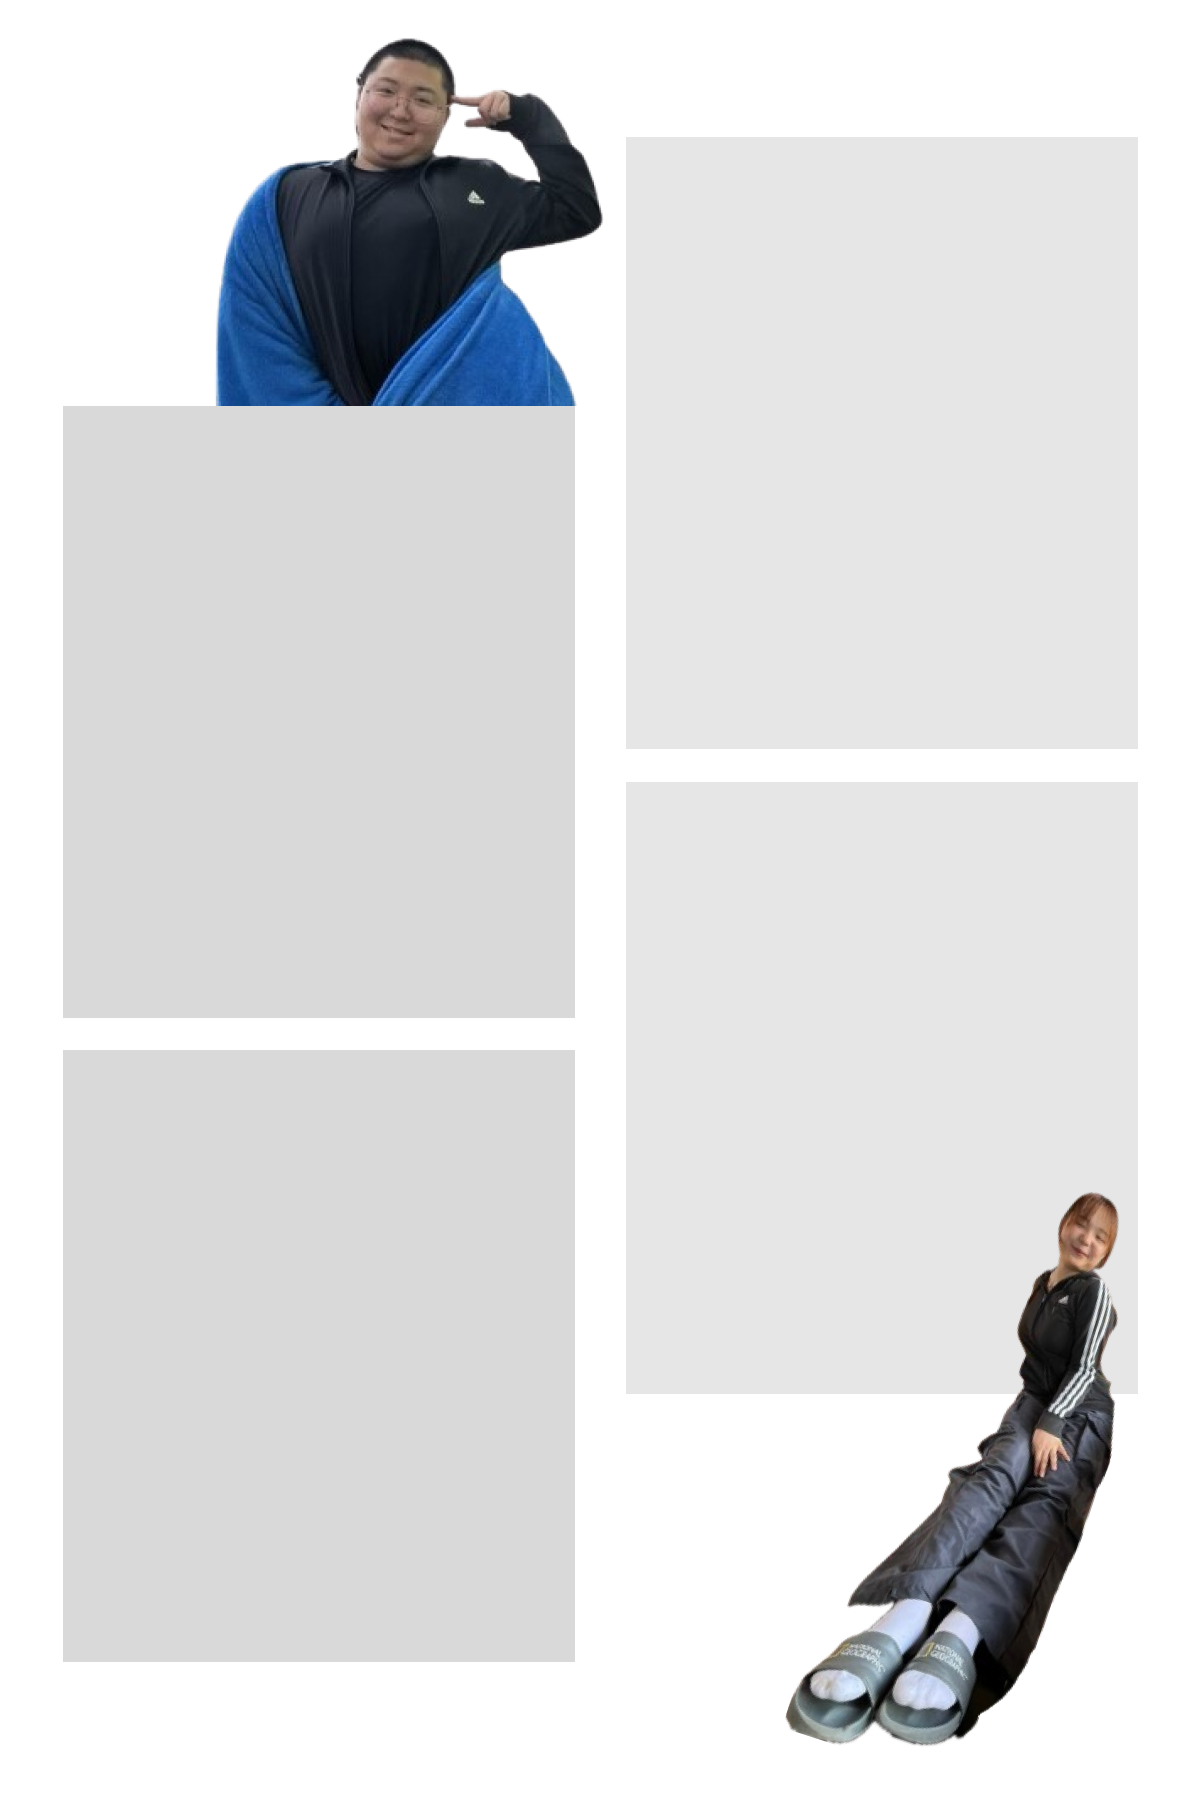
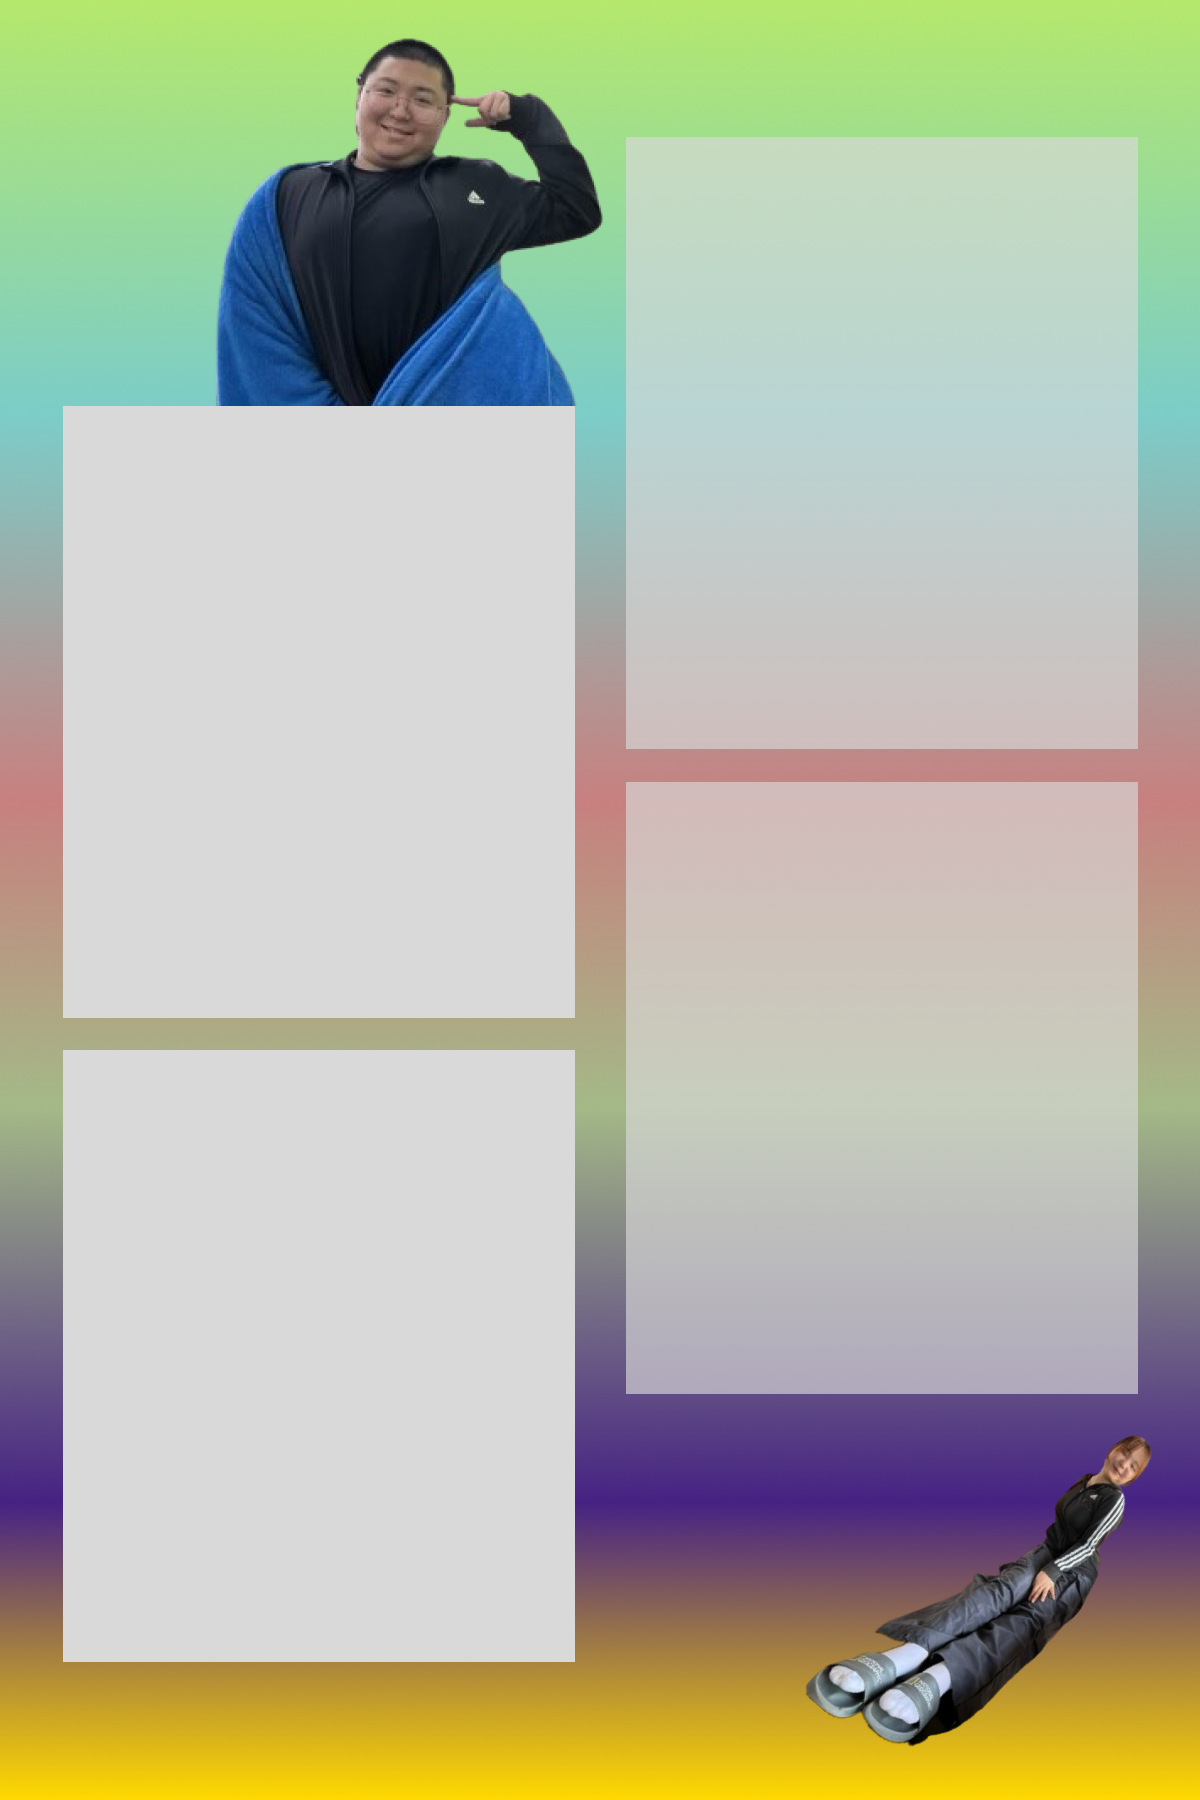
완성 🚀

diff --git a/spam/src/screen/DownloadButton.js b/spam/src/screen/DownloadButton.js
@@ -3,56 +3,19 @@ import html2canvas from "html2canvas";
 import "./DownloadButton.css";
 
 const DownloadButton = () => {
-  const downloadImage = () => {
+  const printImage = () => {
     const frame = document.querySelector(".photo-frame");
 
     if (frame) {
       const elementWidth = 377.95275591;
       const elementHeight = 559.37;
       html2canvas(frame, {
-        scale: 4, // 디바이스 픽셀 밀도에 맞게 스케일 조정
-        useCORS: true, // 외부 리소스 CORS 문제 방지
-        backgroundColor: null, // 투명 배경 유지
-        windowWidth: elementWidth, // 요소의 너비로 캡처 크기 설정
-        windowHeight: elementHeight, // 요소의 높이로 캡처 크기 설정
+        scale: 4,
+        useCORS: true,
+        backgroundColor: null,
+        windowWidth: elementWidth,
+        windowHeight: elementHeight,
       }).then((canvas) => {
-        // const img = new Image();
-        // img.src = canvas.toDataURL("image/png");
-
-        // img.onload = () => {
-        //   const imgWidth = img.width;
-        //   const imgHeight = img.height;
-
-        //   // 원하는 너비와 높이 설정
-        //   const desiredWidth = 500;
-        //   const desiredHeight = 800;
-
-        //   // 비율을 맞추기 위해 새로운 캔버스 생성
-        //   const newCanvas = document.createElement("canvas");
-        //   const ctx = newCanvas.getContext("2d");
-
-        //   // 이미지의 비율을 유지하면서 새로운 캔버스 크기 설정
-        //   if (imgWidth / imgHeight > desiredWidth / desiredHeight) {
-        //     newCanvas.width = desiredWidth;
-        //     newCanvas.height = Math.floor(
-        //       (desiredWidth / imgWidth) * imgHeight
-        //     );
-        //   } else {
-        //     newCanvas.height = desiredHeight;
-        //     newCanvas.width = Math.floor(
-        //       (desiredHeight / imgHeight) * imgWidth
-        //     );
-        //   }
-
-        //   // 이미지 중앙에 배치
-        //   ctx.drawImage(img, 0, 0, newCanvas.width, newCanvas.height);
-
-        //   // 다운로드 링크 생성 및 클릭
-        //   const link = document.createElement("a");
-        //   link.href = newCanvas.toDataURL("image/png");
-        //   link.download = "insaengnecut.png";
-        //   link.click();
-
         const link = document.createElement("img");
         link.id = "mainImg";
         link.src = canvas.toDataURL("image/png");
@@ -77,24 +40,43 @@ const DownloadButton = () => {
         popup.document.write(originalImage);
         popup.document.write("</body></html>");
         popup.document.close();
-        // };
       });
     } else {
       alert("사진이 준비되지 않았습니다.");
     }
   };
 
-  const handleQRClick = () => {
-    alert("QR 코드 생성 기능을 구현해야 합니다.");
+  const downloadImage = () => {
+    const frame = document.querySelector(".photo-frame");
+
+    if (frame) {
+      const elementWidth = 377.95275591;
+      const elementHeight = 559.37;
+      html2canvas(frame, {
+        scale: 4,
+        useCORS: true,
+        backgroundColor: null,
+        windowWidth: elementWidth,
+        windowHeight: elementHeight,
+      }).then((canvas) => {
+        // Create a link element
+        const link = document.createElement("a");
+        link.href = canvas.toDataURL("image/png"); // Get the image URL
+        link.download = "insaengnecut.png"; // Set the download filename
+        link.click(); // Programmatically click the link to trigger download
+      });
+    } else {
+      alert("사진이 준비되지 않았습니다.");
+    }
   };
 
   return (
     <div className="download-box">
-      <button className="download-button" onClick={downloadImage}>
+      <button className="print-button" onClick={printImage}>
         출력
       </button>
-      <button className="qr-button" onClick={handleQRClick}>
-        QR
+      <button className="download-button" onClick={downloadImage}>
+        다운로드
       </button>
     </div>
   );

diff --git a/spam/src/screen/ChooseScreeen.js b/spam/src/screen/ChooseScreeen.js
@@ -1,8 +1,8 @@
 import React, { useState } from "react";
-import "./ChooseSrceeen.css";
+import "./ChooseScreen.css";
 
 const ChooseScreen = ({ selectFrame }) => {
-  const [selectedFrame, setSelectedFrame] = useState("final_frame"); // 초기 선택된 프레임 설정
+  const [selectedFrame, setSelectedFrame] = useState(null);
 
   const handleFrameSelect = (frame) => {
     setSelectedFrame(frame);
@@ -12,7 +12,7 @@ const ChooseScreen = ({ selectFrame }) => {
     if (selectedFrame) {
       selectFrame(selectedFrame); // 선택된 프레임을 부모 컴포넌트에 전달
     } else {
-      alert("프 레임을 선택해주세요.");
+      alert("프레임을 선택해주세요.");
     }
   };
 
@@ -22,11 +22,11 @@ const ChooseScreen = ({ selectFrame }) => {
       <div className="frame-container">
         <div
           className={`frame-option ${
-            selectedFrame === "final_frame" ? "selected" : ""
+            selectedFrame === "spam_frame" ? "selected" : ""
           }`}
-          onClick={() => handleFrameSelect("final_frame")}
+          onClick={() => handleFrameSelect("spam_frame")}
         >
-          <div className="frame-image final-frame"></div>
+          <div className="frame-image spam-frame"></div>
         </div>
         <div
           className={`frame-option ${
@@ -43,15 +43,14 @@ const ChooseScreen = ({ selectFrame }) => {
           onClick={() => handleFrameSelect("cheese_frame")}
         >
           <div className="frame-image cheese-frame"></div>
-        </div>{" "}
+        </div>
         <div
           className={`frame-option ${
-            selectedFrame === "yaohan_frame" ? "selected" : ""
+            selectedFrame === "yohan_frame" ? "selected" : ""
           }`}
-          onClick={() => handleFrameSelect("yaohan_frame")} // yaohan_frame 오타 수정
+          onClick={() => handleFrameSelect("yohan_frame")}
         >
-          <div className="frame-image yaohan-frame"></div>{" "}
-          {/* CSS 클래스 이름 일치 확인 */}
+          <div className="frame-image yaohan-frame"></div>
         </div>
       </div>
       <button className="next-button" onClick={handleNext}>

diff --git a/spam/src/screen/PhotoFrame.js b/spam/src/screen/PhotoFrame.js
@@ -1,15 +1,54 @@
 import React from "react";
 import "./PhotoFrame.css";
 
-const PhotoFrame = ({ photos }) => {
+const frameLayouts = {
+  spam_frame: [
+    { width: 500, height: 700, top: 125, left: 88 },
+    { width: 500, height: 700, top: 125, left: 612 },
+    { width: 500, height: 700, top: 849, left: 88 },
+    { width: 500, height: 700, top: 849, left: 612 },
+  ],
+  mabear_frame: [
+    { width: 512, height: 612, top: 406, left: 63 },
+    { width: 512, height: 612, top: 137, left: 626 },
+    { width: 512, height: 612, top: 1050, left: 63 },
+    { width: 512, height: 612, top: 781, left: 626 },
+  ],
+  cheese_frame: [
+    { width: 512, height: 612, top: 406, left: 63 },
+    { width: 512, height: 612, top: 137, left: 626 },
+    { width: 512, height: 612, top: 1050, left: 63 },
+    { width: 512, height: 612, top: 781, left: 626 },
+  ],
+  yohan_frame: [
+    { width: 512, height: 612, top: 406, left: 63 },
+    { width: 512, height: 612, top: 137, left: 626 },
+    { width: 512, height: 612, top: 1050, left: 63 },
+    { width: 512, height: 612, top: 781, left: 626 },
+  ],
+};
+
+const PhotoFrame = ({ photos, frameType }) => {
+  const layouts = frameLayouts[frameType] || [];
+
   return (
-    <div className="photo-frame">
+    <div
+      className="photo-frame"
+      style={{ backgroundImage: `url(/${frameType}.png)` }}
+    >
       {photos.map((photo, index) => (
         <img
           key={index}
           src={photo}
           alt={`사진 ${index + 1}`}
-          className={`photo${index + 1}`} // photo1, photo2, photo3, photo4 클래스를 적용
+          className={`photo${index + 1}`}
+          style={{
+            width: layouts[index]?.width,
+            height: layouts[index]?.height,
+            top: layouts[index]?.top,
+            left: layouts[index]?.left,
+            position: "absolute",
+          }}
         />
       ))}
     </div>

diff --git a/spam/src/screen/DownloadButton.css b/spam/src/screen/DownloadButton.css
@@ -6,13 +6,14 @@
 }
 
 .download-button,
-.qr-button {
-  width: 240px;
+.print-button {
+  width: 600px;
+  height: 70px;
   background-color: #fdfdfd; /* 버튼 기본 색상 */
   color: #3f3f3f; /* 텍스트 색상 */
   border: none; /* 테두리 제거 */
   padding: 10px 20px; /* 버튼 내부 여백 */
-  font-size: 16px; /* 폰트 크기 */
+  font-size: 30px; /* 폰트 크기 */
   border-radius: 5px; /* 버튼 모서리 둥글게 */
   cursor: pointer; /* 마우스 커서를 포인터로 변경 */
   transition: background-color 0.3s ease; /* 배경색 전환 애니메이션 */
@@ -20,19 +21,19 @@
 }
 
 .download-button:hover,
-.qr-button:hover {
+.print-button:hover {
   background-color: #5a5a5a; /* 버튼 호버 시 색상 변경 */
 }
 
 /* 추가 스타일 (필요시 적용) */
 .download-button:active,
-.qr-button:active {
+.printint-button:active {
   background-color: #2c2c2c; /* 버튼 클릭 시 색상 변경 */
   transform: scale(0.98); /* 클릭 시 살짝 작아지는 효과 */
 }
 
 .download-button:focus,
-.qr-button:focus {
+.print-button:focus {
   outline: none; /* 포커스 시 테두리 제거 */
   box-shadow: 0 0 5px rgba(0, 0, 0, 0.2); /* 포커스 시 약간의 그림자 효과 */
 }

diff --git a/spam/src/App.js b/spam/src/App.js
@@ -1,6 +1,6 @@
 import React, { useState } from "react";
 import StartScreen from "./screen/StartScreen";
-import ChooseScreen from "./screen/ChooseSrceeen"; // 프레임 선택 화면 추가
+import ChooseScreen from "/Users/an-yohan/Documents/GitHub/spam4cut/spam/src/screen/ChooseScreeen.js"; // 프레임 선택 화면 추가
 import WebcamCapture from "./screen/WebcamCapture"; // 예시 프레임 카메라 컴포넌트
 import PhotoFrame from "./screen/PhotoFrame";
 import DownloadButton from "./screen/DownloadButton";

diff --git a/spam/src/screen/ChooseScreen.css b/spam/src/screen/ChooseScreen.css
@@ -48,8 +48,8 @@ h1 {
 }
 
 /* 각 프레임의 미리보기 이미지 설정 */
-.frame-image.final-frame {
-  background-image: url("/public/yohan_frame.png");
+.frame-image.spam-frame {
+  background-image: url("/public/spam_frame.png");
 }
 
 .frame-image.mabear-frame {
@@ -61,7 +61,7 @@ h1 {
 }
 
 .frame-image.yaohan-frame {
-  background-image: url("/public/spam_frame.png"); /* 경로와 파일명 확인 */
+  background-image: url("/public/yohan_frame.png"); /* 경로와 파일명 확인 */
 }
 
 .next-button {

diff --git a/spam/src/screen/WebcamCapture.js b/spam/src/screen/WebcamCapture.js
@@ -104,6 +104,7 @@ const WebcamCapture = ({ addPhoto, photoCount }) => {
         ref={webcamRef}
         screenshotFormat="image/jpeg"
         className="webcam"
+        style={{ transform: "-scaleX(-1)" }}
         videoConstraints={{
           width: 960,
           height: 1280,
